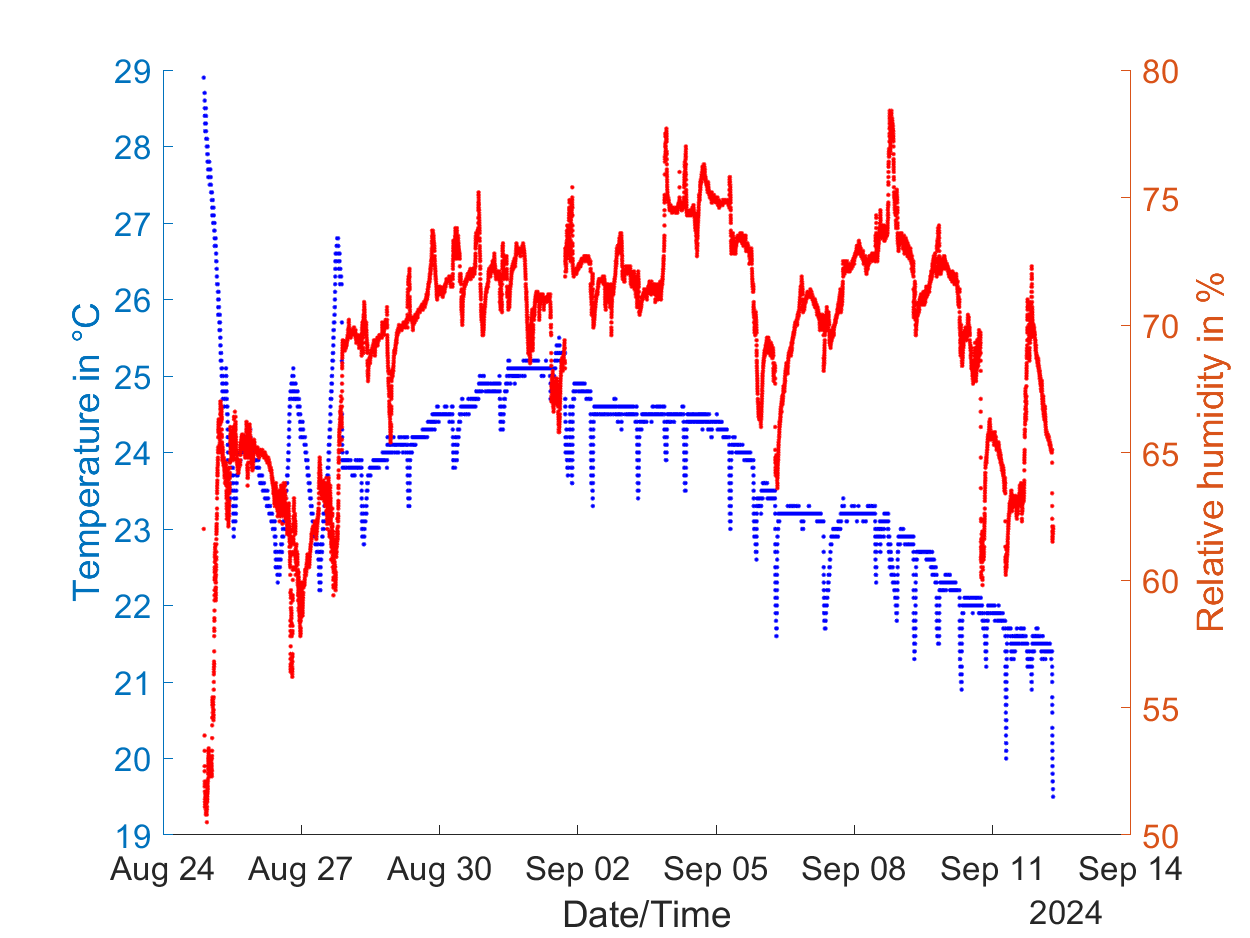
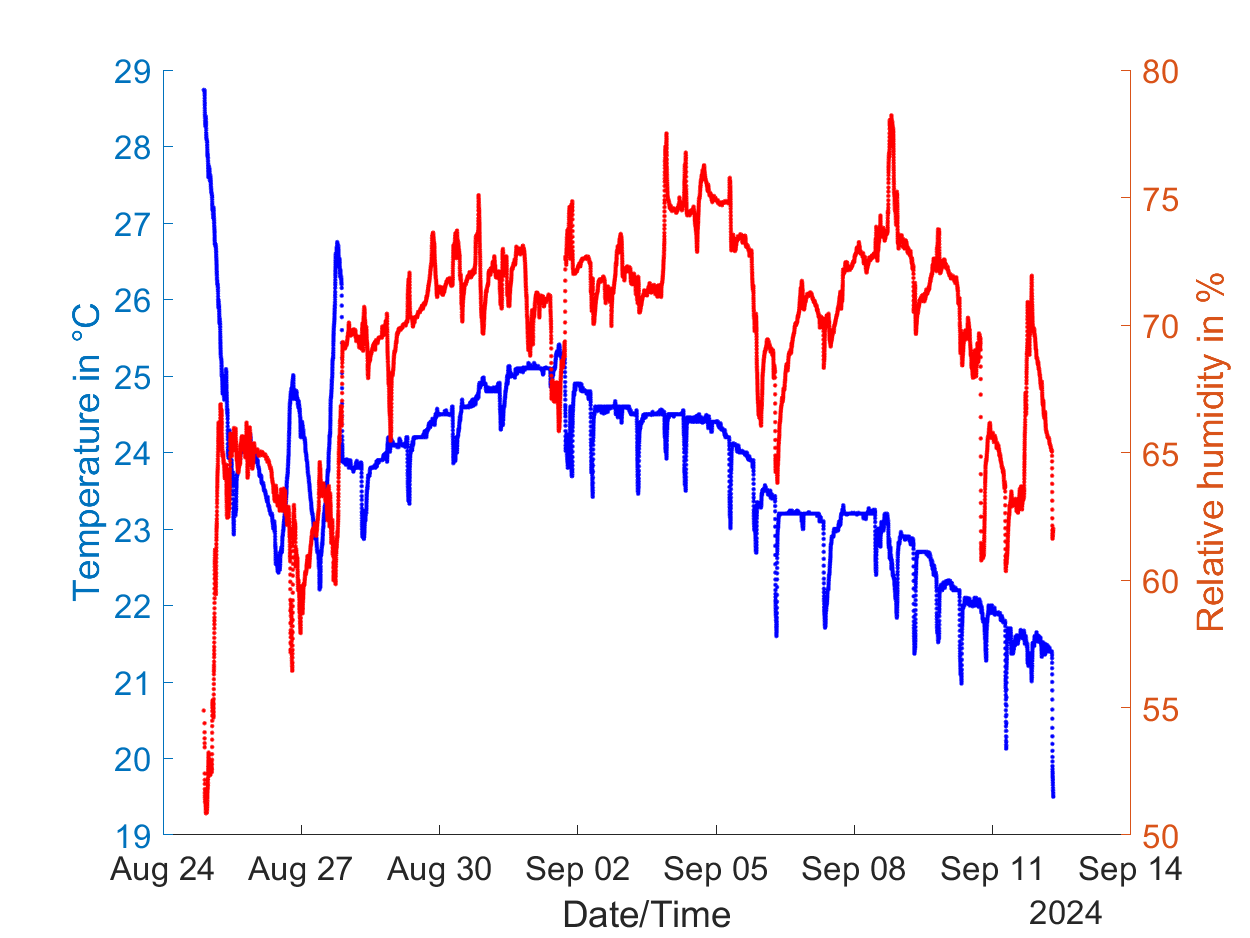
Add files via upload

diff --git a/Matlab_Stuff/Pimp_from_txt_file.m b/Matlab_Stuff/Pimp_from_txt_file.m
@@ -27,6 +27,8 @@ while ~feof(fid)
     end
 end
 fclose(fid); 
+temperature=movmean(temperature,10);
+humidity=movmean(humidity,10);
 Saturation_water_pressure=101325*exp(13.7-5120./(temperature+273));%Rankine formula
 Water_pressure=Saturation_water_pressure.*humidity/100;
 Absolute_humidity=0.622*Water_pressure./(101325-Water_pressure);

diff --git a/Matlab_Stuff/Read_from_txt_file.m b/Matlab_Stuff/Read_from_txt_file.m
@@ -18,6 +18,8 @@ while ~feof(fid)
     end
 end
 fclose(fid);  
+temperature=movmean(temperature,10);
+humidity=movmean(humidity,10);
 disp('Generating the plot...')
 figure('Position',[200 200 800 600]);
 hold on
